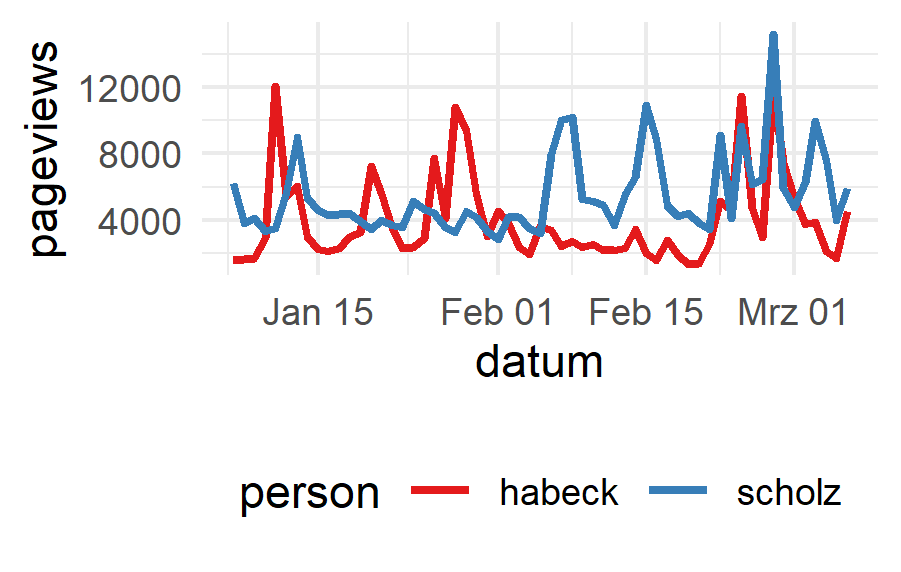
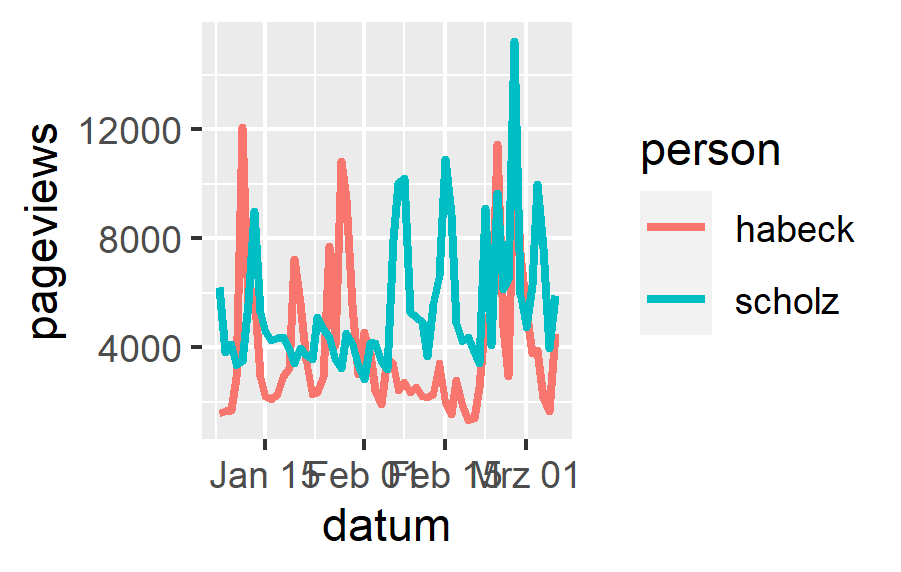
Sitzung 5 ergänzt/finalisiert

diff --git a/05_Daten-beziehen/README.md b/05_Daten-beziehen/README.md
@@ -1,0 +1,203 @@
+# Daten beziehen
+
+## Trockenübungen
+
+1. Warum stellen uns Andere (z.B. Intermediäre) Daten zur Verfügung?
+1. Wer stellt Daten potenziell zur Verfügung?
+1. Was sind verzerrte Daten und wie kommt es dazu?
+1. APIs sind ein sehr zentrales Konstrukt der CCS. Beschreiben Sie, was es damit auf sich hat.
+1. Nennen Sie mindestens drei Anbieter von APIs, die für die CCS von Relevanz sein könnten.
+
+## Praxisübungen
+
+### Datenbanken
+
+Um die Struktur von Datenbanken nachvollziehbar dokumentieren zu können, greift man üblicherweise auf Entity-Relationship-Diagramme zurück. Erstellen Sie ein solches "ERD" (am Einfachsten ist das von Hand mit Zettel und Stift) nach den folgenden Vorgaben:
+
+- Es sollen gesammelte Online-Nachrichtenartikel (nur Texte) von unterschiedlichen Medien verwaltet werden.
+- Jeder Artikel besteht aus einem Titel, dem Text und einer/einem Autor:in. Autor:innen sind frei, gehören also keinem Medium dezidiert an. 
+- Ein Medium hat einen Namen, eine Postanschrift und eine URL. 
+- Autor:innen haben Vor- und Nachnamen sowie eine E-Mail-Adresse. Jede:r Autor:in kann mehrere Artikel verfasst haben. Außerdem können auch mehrere Autor:innen an einem Artikel gemeinsam arbeiten. Die Autor:innenreihenfolge spielt dabei keine Rolle.
+- Artikel erscheinen bei verschiedenen Medien. Ein Artikel kann auch bei mehreren Medien erscheinen. Eine solche Erscheinung ist immer auch mit einem Erscheinungsdatum versehen.
+
+Denken Sie beim Zeichnen an aussagekräftige Merkmalsbezeichnungen und passende Beziehungen.
+
+### SQL
+
+Die Abfragesprache **SQL** lernt sich spielerisch und am einfachsten mithilfe der Lern-Plattform [SQL Island](https://sql-island.informatik.uni-kl.de/).
+
+Auf Basis des ERDs zu den Artikel von Autor:innen, die bei diversen Medien erscheinen (siehe dazu die Lösungsansätze am Ende dieser Seite), formulieren Sie SQL-Anfragen zu den folgenden Aufgaben:
+
+1. Alle Artikel auflisten, alphabetisch nach Titel sortiert.
+1. Die ID des Autoren Max Müller ausfindig machen.
+1. Alle Artikel-IDs auflisten, an denen Max Müller (autorin_id: `21`) mitgearbeitet hat.
+1. Alle Medien in Berlin auflisten.
+1. Alle Artikel, die von Max Müller (mit-)verfasst wurden und im Spiegel (medium_id: `42`) erscheinen, nach Erscheinungstermin sortieren (optional: mit Titel und Text).
+
+### APIs
+
+Die Wikipedia bietet über ihre API Zugriff auf Aufrufzahlen. Das sind Angaben über die tägliche Anzahl an Seitenaufrufen, die bestimmte Seiten erhalten. Das Resultat liefert Ergebnisse der letzten 60 Tage (oder wahlweise weniger). Wir wollen die Seitenaufrufzahlen für die Wikipedia-Seite des Bundeskanzlers abrufen und den Zahlen für die Wikipedia-Seite des Gesundheitsministers gegenüberstellen.
+
+Die API ist [hier](https://de.wikipedia.org/w/api.php) umfassend und der spezifische PageViewInfo-Endpunkt ist [hier](https://www.mediawiki.org/wiki/Extension:PageViewInfo#API) im Speziellen dokumentiert. Zentral sind die folgenden Aspekte:
+
+- API-URL: `https://de.wikipedia.org/w/api.php`
+- Endpunkt: `prop=pageviews&action=query&format=json`
+- Abfrage / Query: `titles=Olaf_Scholz|Karl_Lauterbach`
+
+Die eigentliche Abfrage kann aus Python oder R ausgeführt werden und liefert in beiden Fällen Daten im JSON-Format zurück. Einen Einblick in die retournierte Datenstruktur liefert Wikipedia selbst, wenn man die gesamte API-Anfrage im Browser ausführt und dabei den Format-Parameter weglässt: [https://de.wikipedia.org/w/api.php?action=query&prop=pageviews&titles=Olaf_Scholz|Karl_Lauterbach](https://de.wikipedia.org/w/api.php?action=query&prop=pageviews&titles=Olaf_Scholz|Karl_Lauterbach)
+
+Für R sind dabei keine zusätzlichen Pakete notwendig, denn alle benötigten Teile sind bereits (über das *tidyverse*) installiert. In Python müssen Sie noch requests installieren (`pip install requests`). Die größte Herausforderung dabei ist, das etwas verschachtelte Rückgabeformat in eine ordentlich lesbare Tabellenstruktur zu überführen. Für beide Programmiersprachen ist der Code hier entsprechend vorgegeben.
+
+```python
+# Python
+import pandas as pd
+import requests
+
+request = requests.get(url = 'https://de.wikipedia.org/w/api.php',
+                       params = {'prop': 'pageviews',
+                                 'action': 'query',
+                                 'format': 'json',
+                                 'titles': 'Olaf_Scholz|Karl_Lauterbach'})
+
+lauterbach = request.json()['query']['pages']['975589']['pageviews']
+scholz = request.json()['query']['pages']['293388']['pageviews']
+
+pd.DataFrame(list(zip(lauterbach.keys(), 
+                      lauterbach.values(),
+                      scholz.values())),
+             columns = ['datum', 'lauterbach', 'scholz'])
+```
+
+```r
+# R
+library(tidyverse)
+library(httr)
+library(jsonlite)
+
+request <- GET(url = 'https://de.wikipedia.org/w/api.php',
+               query = list(prop = 'pageviews',
+                            action = 'query',
+                            format = 'json',
+                            titles = 'Olaf_Scholz|Karl_Lauterbach'))
+response <- 
+  request %>% 
+  content(as = 'text') %>% 
+  fromJSON()
+
+tibble(datum = names(response$query$pages$`975589`$pageviews),
+       lauterbach = unlist(response$query$pages$`975589`$pageviews),
+       scholz = unlist(response$query$pages$`293388`$pageviews))
+```
+
+1. Wiederholen Sie Prozedere für Kanzler und Vizekanzler. Speichern Sie die resultierende Tabelle in einer Variable namens `aufmerksamkeitsduell`.
+1. Berechnen Sie die arithmethischen Mittelwerte der Anzahlen an Seitenaufrufen je Person und vergleichen Sie.
+
+### Visualisierung
+
+Da wir nun so anschauliche Daten vor uns haben, wollen wir diese Daten hier auch noch visualisieren. Das ist nur als Einstieg in die Visualisierung von großen Datenmengen gedacht, sodass Sie Anhaltspunkte haben, wonach Sie online recherchieren können. Konkret wollen wir die zwei Datenreihen -- die des Kanzlers und die des Vizekanzlers -- jeweils als Linien in einem Diagramm über die Zeit darstellen. 
+
+In **Python** und mit **Pandas** genügt es, wenn wir eine Spalte zum *Index* machen und anschließend einfach die `plot()`-Funktion aufrufen. Das ist sehr einfach, die optischen Möglichkeiten sind mit Python aber auch begrenzt.
+
+```python
+import matplotlib.pyplot as plt
+plt.figure()
+aufmerksamkeitsduell.set_index('datum').plot.line()
+plt.show()
+```
+
+![Visualisierung aus Python](verlauf-aufmerksamkeitsduell-python.png)
+
+In **R** läuft die Visualisierung über **ggplot2**, ein Paket, das mit dem *tidyverse* bereits installiert wurde. Dabei müssen die Daten im Long-Format vorliegen und für das Paket müssen zudem alle Aspekte der Grafik genau definiert werden. Das sieht auf den ersten Blick komplexer aus, kann aber mit deutlich mehr Konfigurationsmöglichkeiten umgehen.
+
+```r
+aufmerksamkeitsduell %>% 
+  pivot_longer(c(habeck, scholz),
+               names_to = 'person',
+               values_to = 'pageviews') %>% 
+  mutate(datum = as.Date(datum)) %>% 
+  ggplot(aes(x = datum,
+             y = pageviews,
+             color = person)) +
+  geom_line(size = 1)
+```
+
+![Visualisierung aus R](verlauf-aufmerksamkeitsduell-r.png)
+
+1. Visualisieren Sie den Gesundheitsminister als dritte Linie dazu.
+1. Anstelle von Linien, die einen gewissen Zeitverlauf suggerieren, wären tägliche Balken visuell akkurater (aber womöglich auch unübersichtlicher). Visualisieren Sie zum Vergleich die Daten mithilfe von Balken.
+1. Ändern Sie die Farben der Linien in Rot (Scholz) und Grün (Habeck).
+1. Stellen Sie fest, dass Rot und Grün für Rot-Grün-Blinde nicht ideal ist und suchen Sie sich beim [Colorbrewer](https://colorbrewer2.org/) ein tauglicheres Farbpaar für zwei qualitativ unterschiedliche Klassen. Wenden Sie die neuen Farben auf Ihre Grafik an.
+1. Ergänzen oder Ändern Sie sinnvolle (z.B. wöchentliche) Hilfslinien im Hintergrund. 
+1. Passen Sie die X-Achsen-Beschriftung an die Hilfslinien an.
+1. Verschieben Sie die Legende nach unten.
+1. Geben Sie den Achsenbeschriftungen aussagekräftigere Namen.
+
+## Lösungsansätze
+
+Ab hier folgen nun verschiedene Lösungswege zu den oben vorgestellten Übungen. Damit Sie die nicht "versehentlich" überscrollen und so Ihrer Übungsmöglichkeiten beraubt werden, folgt hier zunächst ein visueller Bruch.
+
+![Winkende weiße Katze als GIF](https://media.giphy.com/media/vFKqnCdLPNOKc/giphy.gif)
+
+### Trockenübungen
+
+1. Siehe Unterlagen.
+1. Siehe Unterlagen.
+1. Siehe Unterlagen.
+1. Siehe Unterlagen.
+1. Nahezu alle Intermediäre und viele weitere:
+   - Deutscher Bundestag
+   - Face++
+   - Facebook
+   - Google Translate
+   - Instagram
+   - Reddit
+   - Twitter
+   - Wikipedia
+   - YouTube
+
+### Praxisübungen
+
+#### Datenbanken
+
+![Entity-Relationship-Diagramm](erd_artikel.png)
+
+1. ```sql
+   SELECT * 
+   FROM artikel 
+   ORDER BY titel ASC
+   ```
+1. ```sql
+   SELECT autorin_id 
+   FROM autorin 
+   WHERE vorname = "Max" 
+     AND nachname = "Müller"
+   ```
+1. ```sql
+   SELECT artikel_id 
+   FROM autorin_je_artikel 
+   WHERE autorin_id = 21
+   ```
+1. ```sql
+   SELECT * 
+   FROM medium 
+   WHERE stadt = "Berlin"
+   ```
+1. ```sql
+   SELECT artikel.artikel_id,
+          artikel_in_medium.erscheinungstermin,
+          artikel.titel,
+		  artikel.text
+   FROM artikel_in_medium 
+   LEFT JOIN artikel 
+          ON artikel_in_medium.artikel_id = artikel.artikel_id
+   WHERE artikel_id IN (SELECT artikel_id 
+                        FROM autorin_je_artikel 
+	                    WHERE autorin_id = 21)
+     AND medium_id = 42
+   ORDER BY erscheinungstermin ASC
+   ```
+
+#### APIs
+
+1. Der Code ist genau derselbe. Ändern Sie die Namen und die Zahl von Lauterbach (`975589`) auf die Seiten-ID von Robert Habeck, die Sie aus der JSON-Antwort oder von Wikipedia selbst auslesen können (`1569620`). 
+1. Das Ergebnis hängt natürlich davon ab, wann Sie die Anfrage durchführen. Bei mir beträgt der gerundete Durchschnittswert des Kanzlers derzeit 5470 Wikipedia-Seitenaufrufe pro Tag. Der des Vizekanzlers liegt mit 3936 deutlich darunter.
